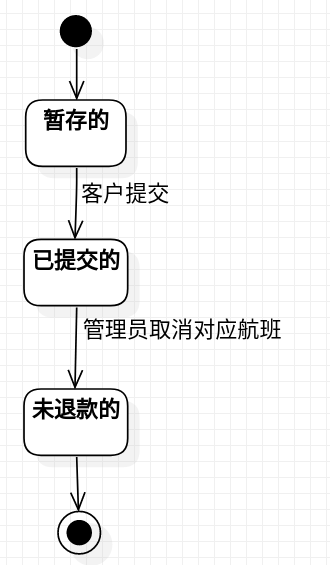
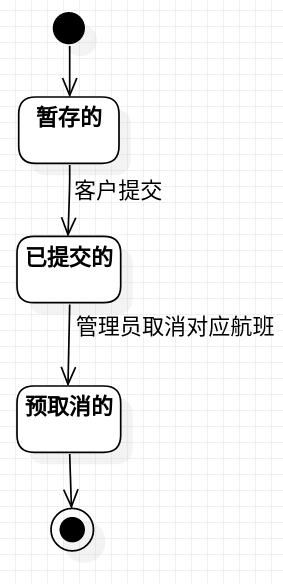
Update lab7.md

Changed region(s): [[0.0565, 0.0, 0.9611, 0.9929]]

diff --git a/students/1714080901141/lab7.md b/students/1714080901141/lab7.md
@@ -65,7 +65,7 @@
 
 2.3 确定对象的状态之间的转换条件：
 - 预添加的航班通过添加操作，将转变为已保存的；已保存的航班通过取消操作，将转变为预取消的。
-- 暂存订单在客户提交后，将转换为已提交的；已提交的订单在管理员取消对应航班后，将转变为未退款的。
+- 暂存订单在客户提交后，将转换为已提交的；已提交的订单在管理员取消对应航班后，将转变为预取消的。
 
 ## 四、实验结果
 
